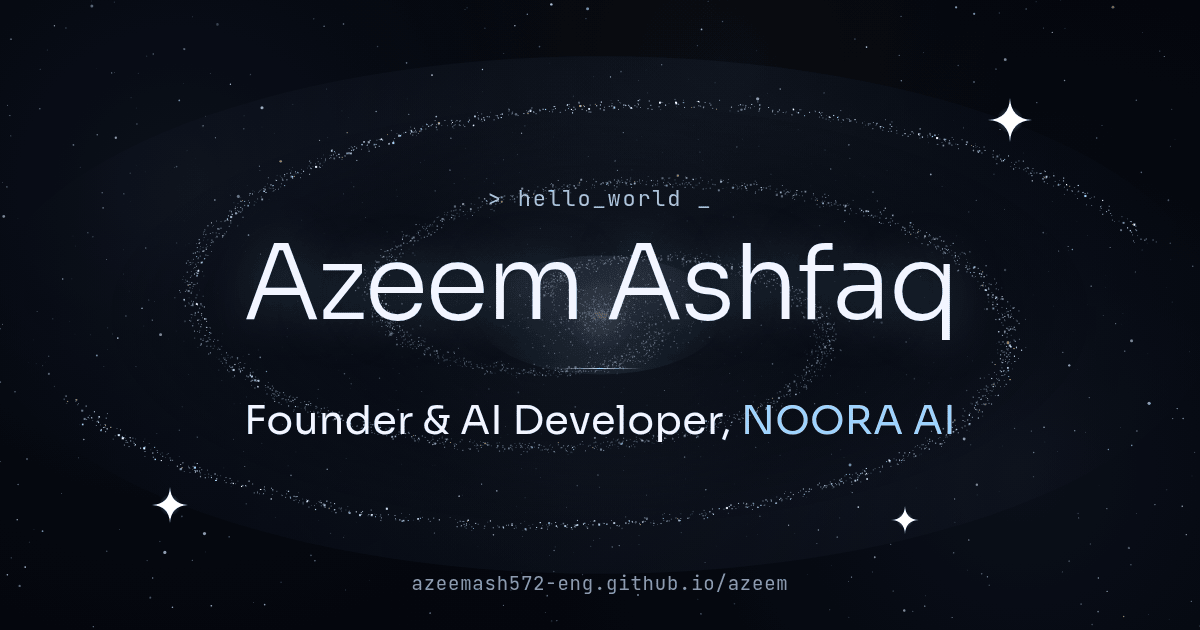
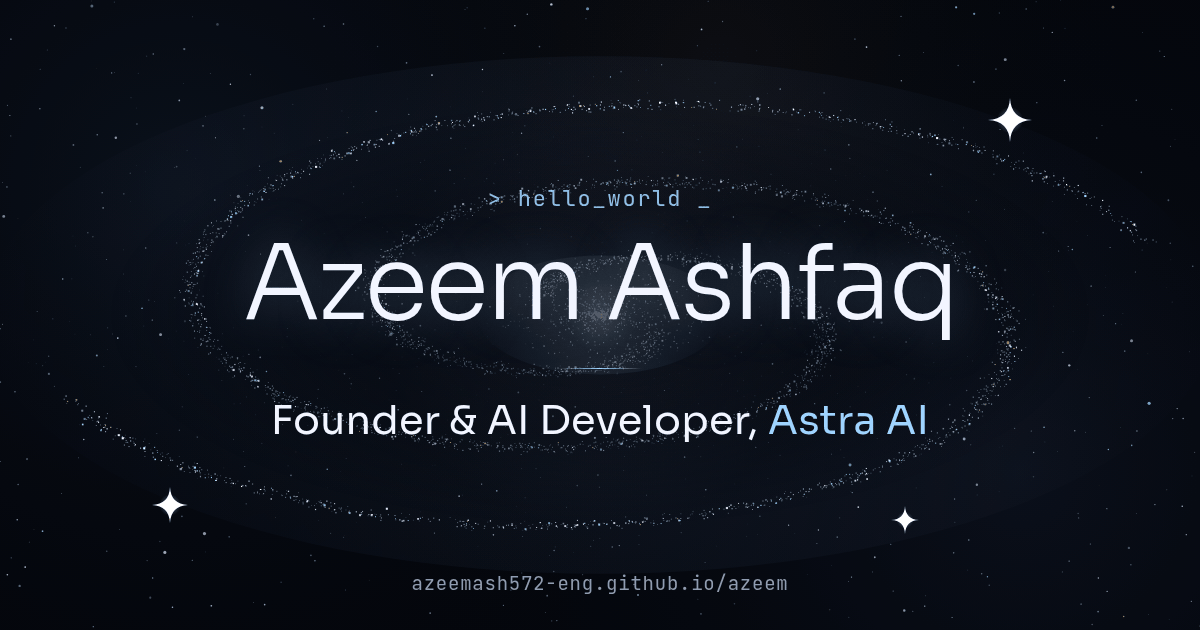
Rebrand NOORA AI -> Astra AI (title, meta/OG/Twitter, hero, case study, robot card, footer); regenerate og.png

Changed region(s): [[0.185, 0.6333, 0.8017, 0.6937], [0.4317, 0.3016, 0.555, 0.3317]]

diff --git a/index.html b/index.html
@@ -3,28 +3,28 @@
 <head>
 <meta charset="UTF-8">
 <meta name="viewport" content="width=device-width, initial-scale=1">
-<title>Azeem Ashfaq — Founder &amp; AI Developer, NOORA AI</title>
-<meta name="description" content="Azeem Ashfaq (Chaand) — Founder &amp; AI Developer of NOORA AI, a voice-first AI assistant for web and Android. Based in Salalah, Oman.">
+<title>Azeem Ashfaq — Founder &amp; AI Developer, Astra AI</title>
+<meta name="description" content="Azeem Ashfaq (Chaand) — Founder &amp; AI Developer of Astra AI, a voice-first AI assistant for web and Android. Based in Salalah, Oman.">
 <meta name="theme-color" content="#05070d">
 <meta name="author" content="Azeem Ashfaq">
 <link rel="canonical" href="https://azeemash572-eng.github.io/azeem/">
 <meta property="og:type" content="website">
 <meta property="og:site_name" content="Azeem Ashfaq">
 <meta property="og:url" content="https://azeemash572-eng.github.io/azeem/">
-<meta property="og:title" content="Azeem Ashfaq — Founder &amp; AI Developer, NOORA AI">
-<meta property="og:description" content="Founder of NOORA AI, a voice-first AI assistant for web and Android. AI content creator based in Salalah, Oman.">
-<meta property="og:image" content="https://azeemash572-eng.github.io/azeem/assets/og.png">
-<meta property="og:image:secure_url" content="https://azeemash572-eng.github.io/azeem/assets/og.png">
+<meta property="og:title" content="Azeem Ashfaq — Founder &amp; AI Developer, Astra AI">
+<meta property="og:description" content="Founder of Astra AI, a voice-first AI assistant for web and Android. AI content creator based in Salalah, Oman.">
+<meta property="og:image" content="https://azeemash572-eng.github.io/azeem/assets/og.png?v=astra">
+<meta property="og:image:secure_url" content="https://azeemash572-eng.github.io/azeem/assets/og.png?v=astra">
 <meta property="og:image:type" content="image/png">
 <meta property="og:image:width" content="1200">
 <meta property="og:image:height" content="630">
-<meta property="og:image:alt" content="Azeem Ashfaq — Founder &amp; AI Developer, NOORA AI, over a spiral galaxy">
+<meta property="og:image:alt" content="Azeem Ashfaq — Founder &amp; AI Developer, Astra AI, over a spiral galaxy">
 <meta property="og:locale" content="en_US">
 <meta name="twitter:card" content="summary_large_image">
-<meta name="twitter:title" content="Azeem Ashfaq — Founder &amp; AI Developer, NOORA AI">
-<meta name="twitter:description" content="Founder of NOORA AI, a voice-first AI assistant for web and Android. AI content creator based in Salalah, Oman.">
-<meta name="twitter:image" content="https://azeemash572-eng.github.io/azeem/assets/og.png">
-<meta name="twitter:image:alt" content="Azeem Ashfaq — Founder &amp; AI Developer, NOORA AI, over a spiral galaxy">
+<meta name="twitter:title" content="Azeem Ashfaq — Founder &amp; AI Developer, Astra AI">
+<meta name="twitter:description" content="Founder of Astra AI, a voice-first AI assistant for web and Android. AI content creator based in Salalah, Oman.">
+<meta name="twitter:image" content="https://azeemash572-eng.github.io/azeem/assets/og.png?v=astra">
+<meta name="twitter:image:alt" content="Azeem Ashfaq — Founder &amp; AI Developer, Astra AI, over a spiral galaxy">
 <link rel="icon" href="assets/monogram.svg" type="image/svg+xml">
 <link rel="icon" href="assets/favicon-32.png" type="image/png" sizes="32x32">
 <link rel="apple-touch-icon" href="assets/apple-touch-icon.png">
@@ -44,7 +44,7 @@
   <button class="menu-btn" aria-label="Open menu" aria-expanded="false"><span></span><span></span></button>
   <nav class="links">
     <a href="#about">About</a>
-    <a href="#noora">NOORA AI</a>
+    <a href="#astra">Astra AI</a>
     <a href="#skills">Skills</a>
     <a href="#projects">Projects</a>
     <a href="#experience">Experience</a>
@@ -60,10 +60,10 @@
     <p class="kicker mono reveal">&gt; hello_world <span class="caret">_</span></p>
     <h1 class="reveal">Azeem Ashfaq</h1>
     <p class="nick reveal">also known as <em>Chaand</em></p>
-    <p class="title reveal">Founder &amp; AI Developer, <span class="gold">NOORA AI</span></p>
+    <p class="title reveal">Founder &amp; AI Developer, <span class="gold">Astra AI</span></p>
     <p class="lead reveal">Building a voice-first AI assistant for web and Android — and creating AI-powered content. Based in Salalah, Oman.</p>
     <div class="cta reveal">
-      <a class="btn btn-gold" href="#noora">Explore NOORA AI</a>
+      <a class="btn btn-gold" href="#astra">Explore Astra AI</a>
       <a class="btn btn-ghost" href="https://azeemash572-eng.github.io/noora-ai-web/" target="_blank" rel="noopener">Try the web app ↗</a>
     </div>
   </div>
@@ -74,8 +74,8 @@
   <div class="container narrow">
     <p class="eyebrow mono">// about</p>
     <h2 class="reveal">About</h2>
-    <p class="reveal">I'm Azeem Ashfaq — friends call me Chaand. Originally from Lalamusa (Gujrat, Punjab, Pakistan) and now based in Salalah, Oman, I'm the <strong>founder of NOORA AI</strong>, a voice-first AI assistant I design and build myself for the web and Android.</p>
-    <p class="reveal">Alongside NOORA, I founded and run AI content projects — Instagram reel pages and the <em>Team Chaand</em> cartoon story videos — where I experiment with AI-generated video and content automation.</p>
+    <p class="reveal">I'm Azeem Ashfaq — friends call me Chaand. Originally from Lalamusa (Gujrat, Punjab, Pakistan) and now based in Salalah, Oman, I'm the <strong>founder of Astra AI</strong>, a voice-first AI assistant I design and build myself for the web and Android.</p>
+    <p class="reveal">Alongside Astra, I founded and run AI content projects — Instagram reel pages and the <em>Team Chaand</em> cartoon story videos — where I experiment with AI-generated video and content automation.</p>
     <p class="reveal">I'm an INFJ who values self-respect, self-confidence and helping others — and I believe AI should be personal, useful and within everyone's reach.</p>
     <ul class="facts reveal">
       <li><span>Based in</span>Salalah, Oman</li>
@@ -86,29 +86,29 @@
   </div>
 </section>
 
-<section id="noora" class="section section-alt">
+<section id="astra" class="section section-alt">
   <div class="container">
     <p class="eyebrow mono">// flagship_project</p>
-    <h2 class="reveal">NOORA AI <span class="tag">Case study</span></h2>
+    <h2 class="reveal">Astra AI <span class="tag">Case study</span></h2>
     <p class="sub reveal">Founder &amp; developer — a voice-first personal AI assistant.</p>
 
     <div class="case-grid">
       <div class="card case-overview reveal">
         <h3>Overview</h3>
-        <p>NOORA is a personal assistant you talk to. It listens, answers out loud and can act on your phone — built as an installable web app for iPhone and as a native Android app.</p>
+        <p>Astra is a personal assistant you talk to. It listens, answers out loud and can act on your phone — built as an installable web app for iPhone and as a native Android app.</p>
         <div class="platforms">
           <div><h4>Web app (PWA)</h4><p>HTML, CSS &amp; JavaScript progressive web app, installable on iPhone, hosted on GitHub Pages.</p></div>
           <div><h4>Android app</h4><p>Native Android app written in Java and built with Gradle.</p></div>
         </div>
         <div class="cta">
-          <a class="btn btn-gold" href="https://azeemash572-eng.github.io/noora-ai-web/" target="_blank" rel="noopener">Open NOORA web ↗</a>
+          <a class="btn btn-gold" href="https://azeemash572-eng.github.io/noora-ai-web/" target="_blank" rel="noopener">Open Astra web ↗</a>
         </div>
       </div>
 
-      <div class="terminal reveal" aria-label="NOORA AI architecture">
-        <div class="term-bar"><i></i><i></i><i></i><span>noora.config</span></div>
-<pre class="mono"><code><span class="c">// how NOORA thinks</span>
-<span class="k">const</span> noora = {
+      <div class="terminal reveal" aria-label="Astra AI architecture">
+        <div class="term-bar"><i></i><i></i><i></i><span>astra.config</span></div>
+<pre class="mono"><code><span class="c">// how Astra thinks</span>
+<span class="k">const</span> astra = {
   input:   <span class="s">"voice (STT)"</span>,
   output:  <span class="s">"voice (TTS)"</span>,
   llm:     [<span class="s">"Gemini"</span>, <span class="s">"Groq"</span>],
@@ -135,8 +135,8 @@
     <div class="next card reveal">
       <div>
         <p class="mono status">● in planning</p>
-        <h3>Next: the NOORA robot</h3>
-        <p>A physical NOORA prototype — Raspberry Pi 5, microphone, speaker and a two-wheel chassis — bringing the assistant off the screen.</p>
+        <h3>Next: the Astra robot</h3>
+        <p>A physical Astra prototype — Raspberry Pi 5, microphone, speaker and a two-wheel chassis — bringing the assistant off the screen.</p>
       </div>
       <ul class="chips"><li>Raspberry Pi 5</li><li>Mic</li><li>Speaker</li><li>2-wheel chassis</li></ul>
     </div>
@@ -189,9 +189,9 @@
     <h2 class="reveal">Experience</h2>
     <div class="timeline">
       <div class="tl-item reveal">
-        <h3>Founder &amp; AI Developer — NOORA AI</h3>
+        <h3>Founder &amp; AI Developer — Astra AI</h3>
         <p class="meta">Independent project</p>
-        <p>Designing and building NOORA's web app and Android app end to end.</p>
+        <p>Designing and building Astra's web app and Android app end to end.</p>
       </div>
       <div class="tl-item reveal">
         <h3>Sharp Brand Promoter &amp; Merchandiser — Hyper Max, Salalah</h3>
@@ -206,7 +206,7 @@
   <div class="container narrow center">
     <p class="eyebrow mono">// contact</p>
     <h2 class="reveal">Let's talk</h2>
-    <p class="reveal">Interested in NOORA AI, collaborations or AI content? Send me an email.</p>
+    <p class="reveal">Interested in Astra AI, collaborations or AI content? Send me an email.</p>
     <a class="btn btn-gold btn-lg reveal" href="mailto:azeemraja572@icloud.com">azeemraja572@icloud.com</a>
   </div>
 </section>
@@ -214,7 +214,7 @@
 
 <footer class="footer">
   <img src="assets/monogram.svg" alt="" width="28" height="28">
-  <p>© <span id="year">2026</span> Azeem Ashfaq · Founder of NOORA AI · Salalah, Oman</p>
+  <p>© <span id="year">2026</span> Azeem Ashfaq · Founder of Astra AI · Salalah, Oman</p>
   <a href="#hero" class="mono">back to top ↑</a>
 </footer>
 
